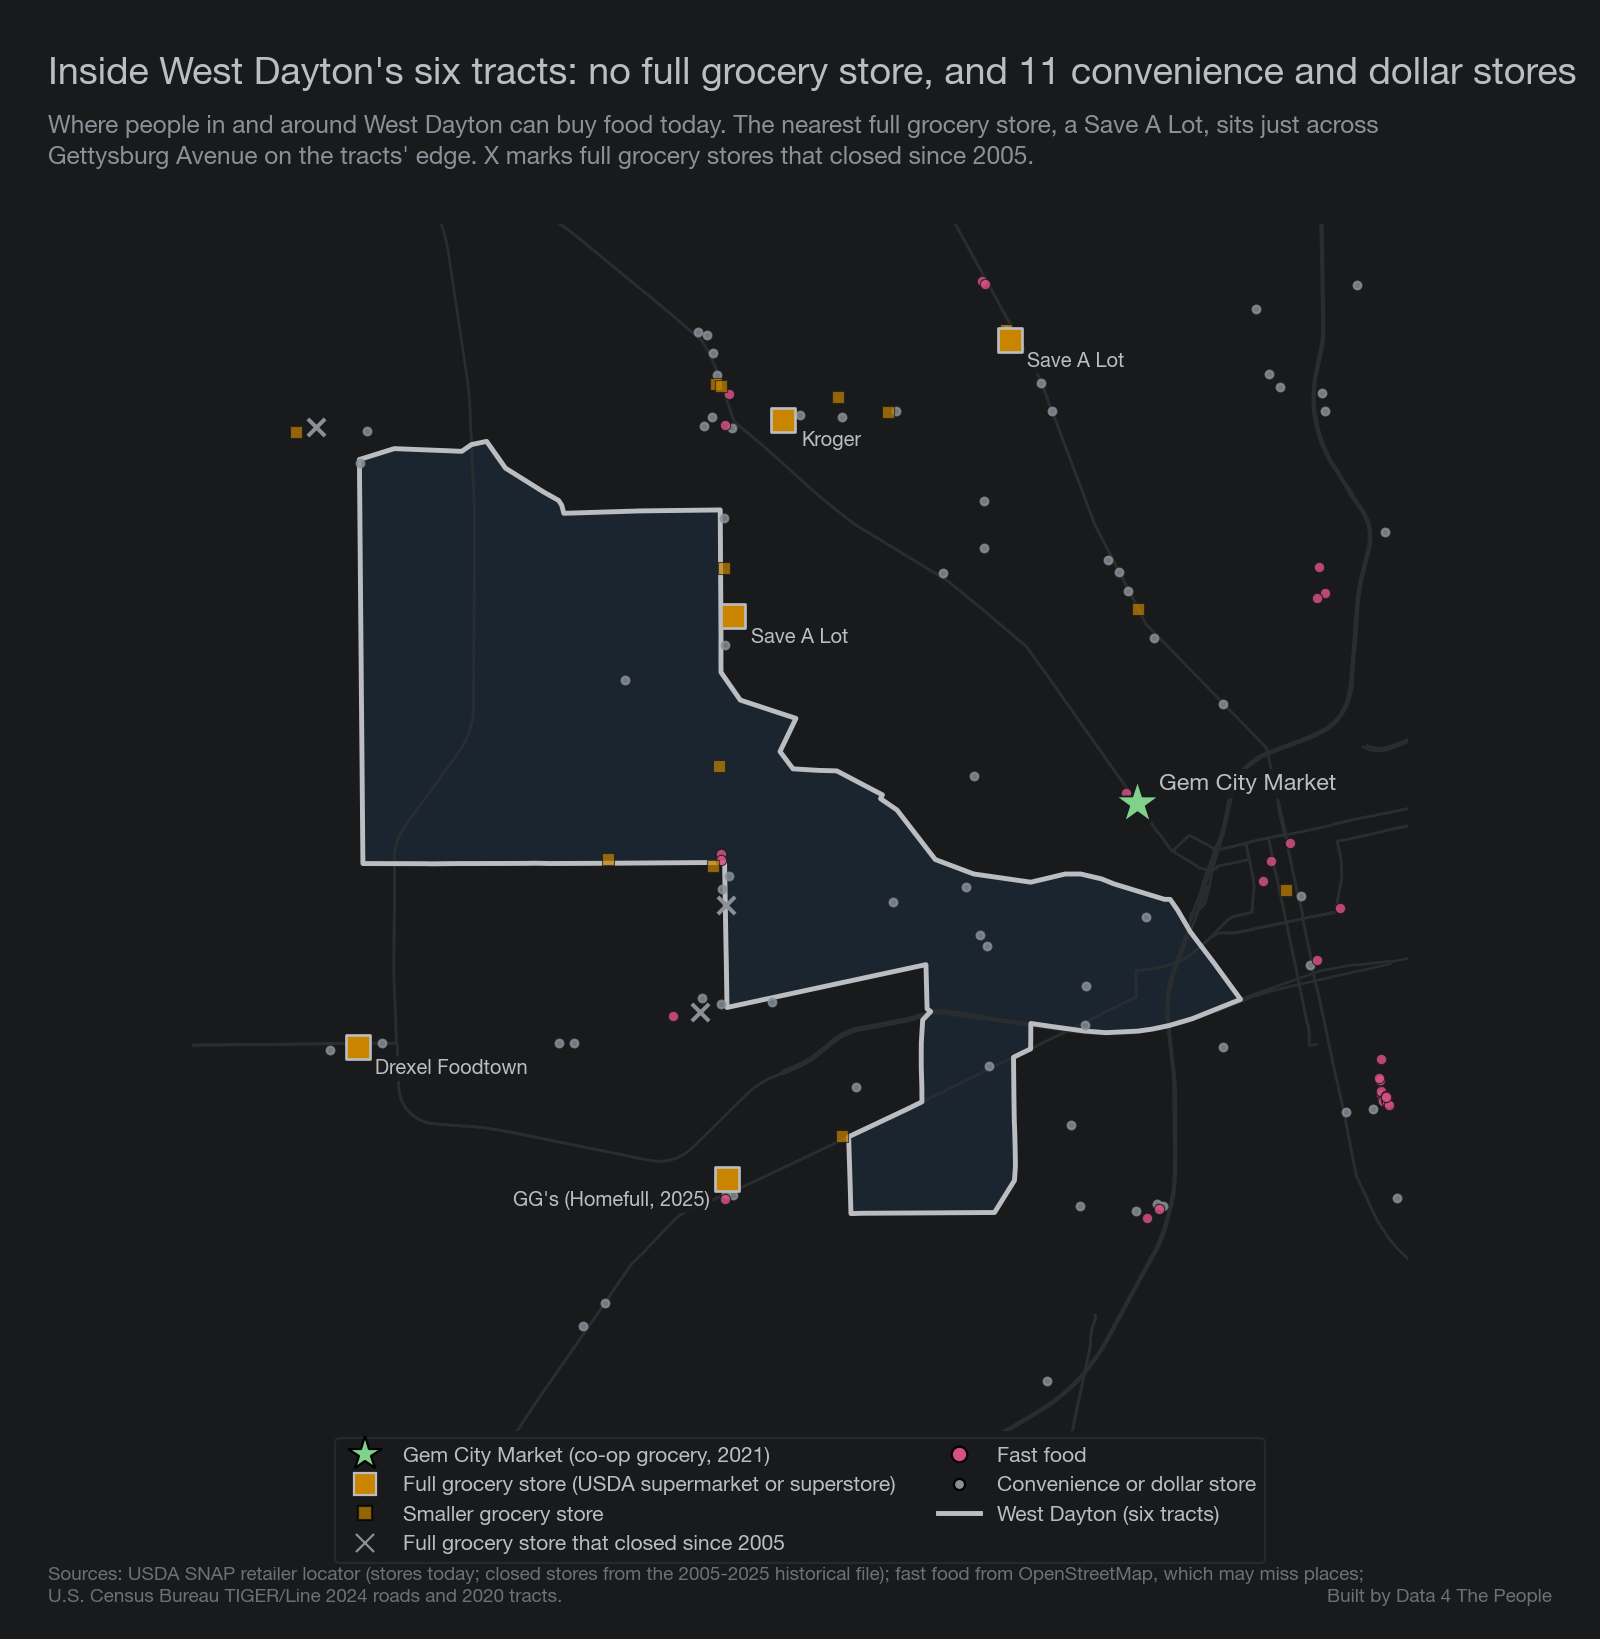
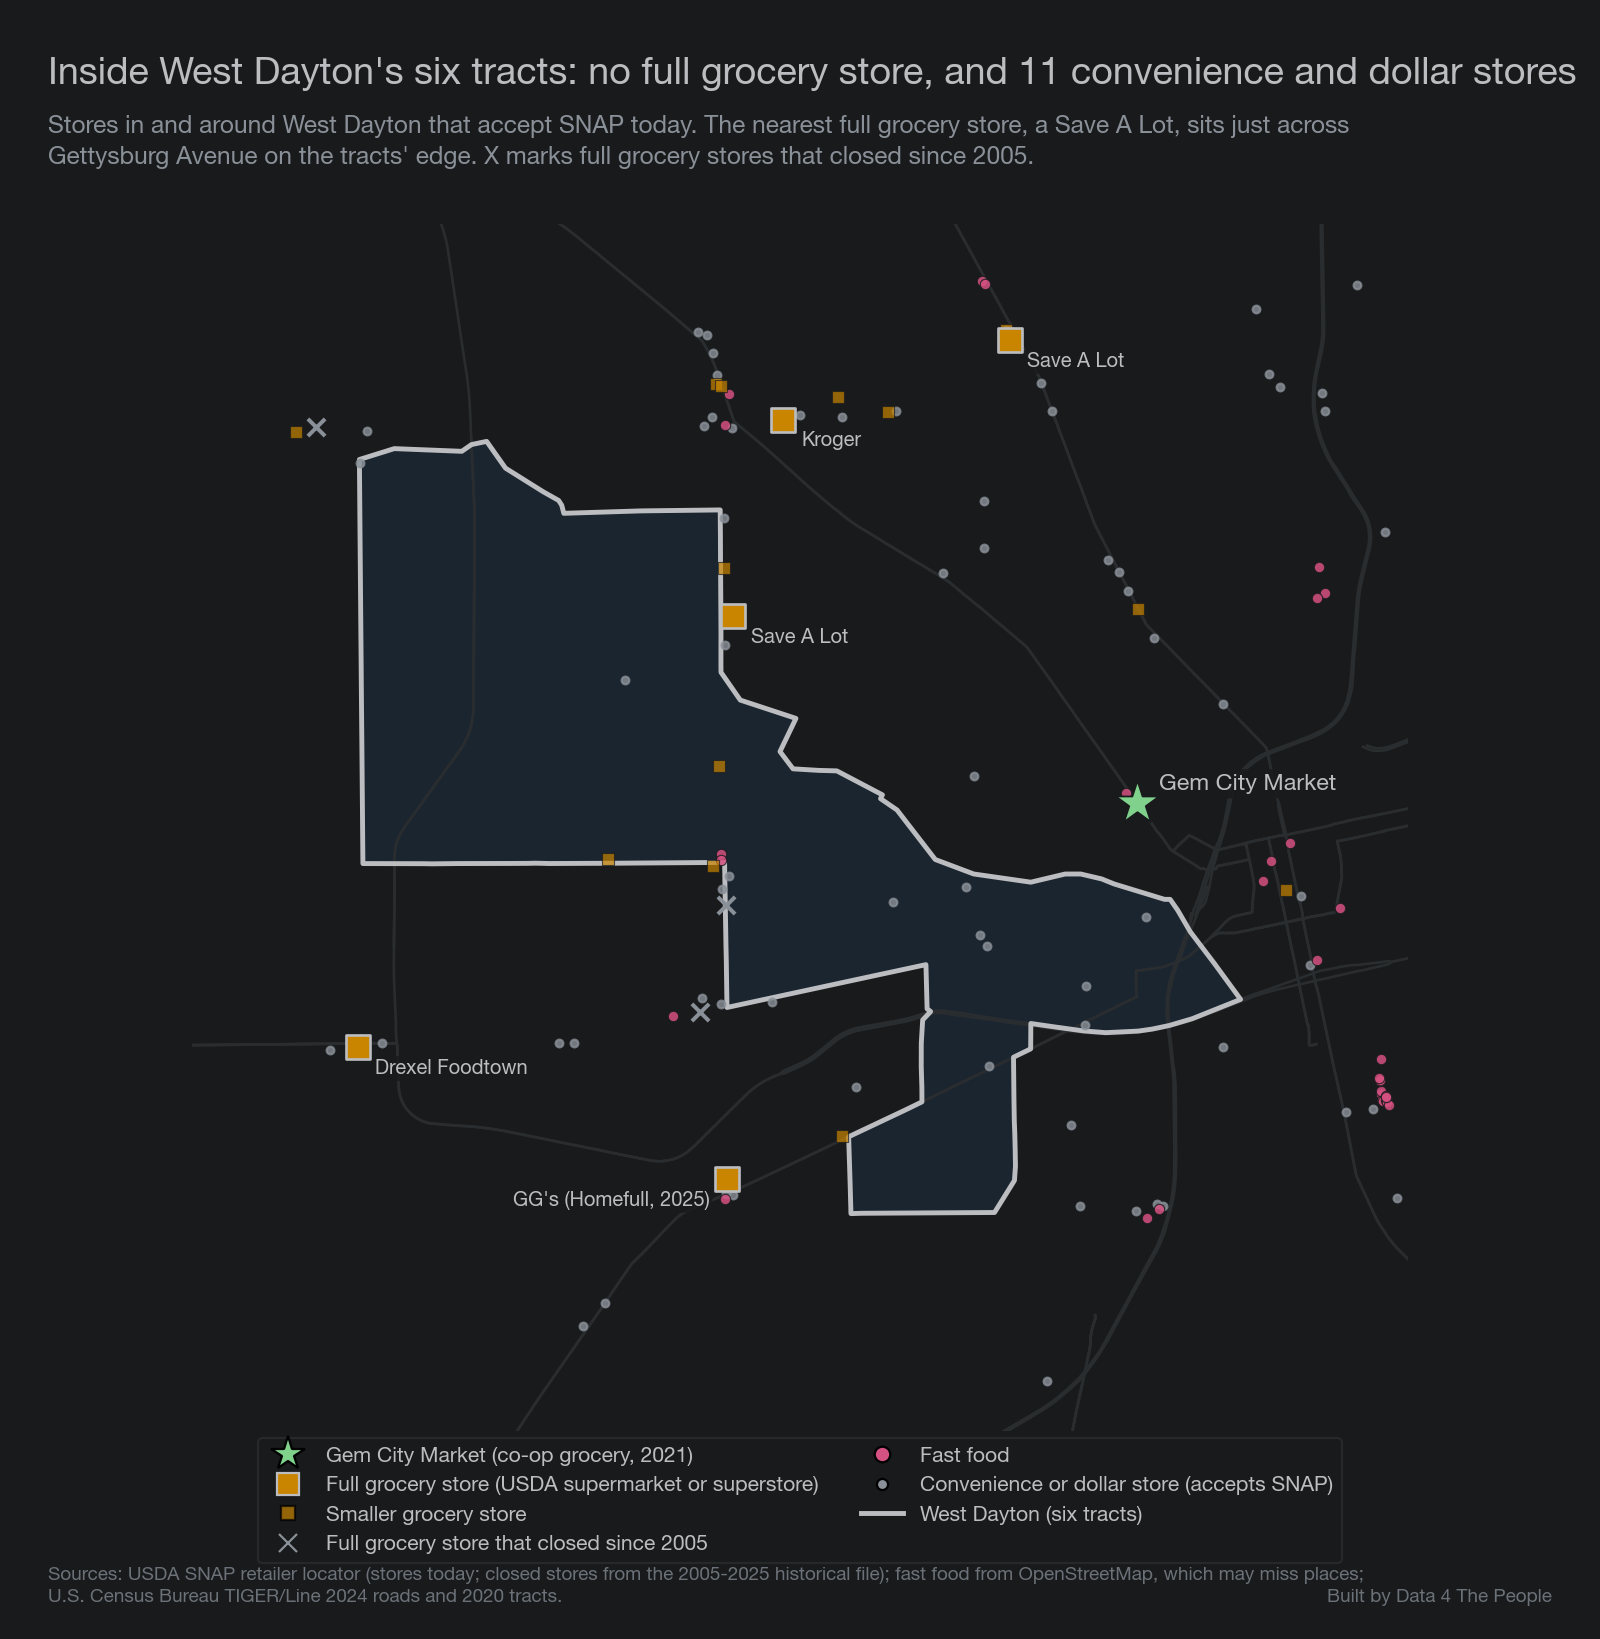
spotlight-west-dayton: food map says every store accepts SNAP; transportation and food insecurity pull (not in text yet)

Changed region(s): [[0.1562, 0.8713, 0.8125, 0.9646], [0.0312, 0.0622, 0.8438, 0.0933]]

diff --git a/scripts/92_transport_westdayton.py b/scripts/92_transport_westdayton.py
@@ -1,0 +1,47 @@
+"""Getting to food in West Dayton: households with no vehicle (ACS) and adults lacking reliable transportation (CDC PLACES).
+
+ACS 2020-2024 5-year B25044 (tenure by vehicles available): no vehicle = owner (003) + renter (010) over total (001),
+summed across the six tracts; Montgomery County and U.S. for comparison.
+CDC PLACES 2025 release (data.cdc.gov cwsq-ngmh), 2023 survey year: LACKTRPT (lack of reliable transportation in the past
+12 months) and FOODINSECU (food insecurity in the past 12 months), crude prevalence for adults, averaged across the six
+tracts weighted by tract population; comparison is all PLACES tracts with the measure (40 states), weighted by tract population.
+Output: analysis/spotlight/transport_westdayton.csv
+"""
+import sys
+from pathlib import Path
+import pandas as pd, requests
+sys.path.insert(0, str(Path.home() / ".claude/d4tp-process"))
+from d4tp_env import read_env_file
+ROOT = Path(__file__).resolve().parents[1]
+KEY = read_env_file(Path.home() / ".claude/d4tp-process/.env")["CENSUS_API_KEY"]
+T = ["165100", "003800", "003900", "004100", "000200", "070300"]
+V = ["B25044_001E", "B25044_003E", "B25044_010E"]
+U = "https://api.census.gov/data/2024/acs/acs5"
+
+
+def acs(geo, within=None):
+    p = {"get": ",".join(V), "for": geo, "key": KEY}
+    if within: p["in"] = within
+    r = requests.get(U, params=p, timeout=120); r.raise_for_status()
+    d = pd.DataFrame(r.json()[1:], columns=r.json()[0]); d[V] = d[V].astype(int); return d
+
+
+rows = []
+t = acs("tract:*", "state:39 county:113"); t = t[t.tract.isin(T)]
+for name, d in (("West Dayton", t), ("Montgomery County", acs("county:113", "state:39")), ("United States", acs("us:1"))):
+    nv, tot = (d.B25044_003E + d.B25044_010E).sum(), d.B25044_001E.sum()
+    rows.append(dict(area=name, measure="households_no_vehicle_pct", value=round(100 * nv / tot, 1), n=int(nv), total=int(tot)))
+
+q = requests.get("https://data.cdc.gov/resource/cwsq-ngmh.json",
+                 params={"$where": "countyfips='39113' and measureid in('LACKTRPT','FOODINSECU')", "$limit": 5000}, timeout=120).json()
+p = pd.DataFrame(q); p = p[p.locationname.str[-6:].isin(T)]
+p["v"] = p.data_value.astype(float); p["pop"] = p.totalpopulation.astype(float)
+for m, g in p.groupby("measureid"):
+    rows.append(dict(area="West Dayton", measure=m, value=round((g.v * g["pop"]).sum() / g["pop"].sum(), 1), n=len(g), total=None, year=g.year.iloc[0]))
+    for r in g.itertuples(): rows.append(dict(area="tract " + r.locationname[-6:], measure=m, value=r.v, year=r.year))
+for m in ("LACKTRPT", "FOODINSECU"):  # tracts in the 40 states PLACES covers for these measures, weighted by tract population
+    a = requests.get("https://data.cdc.gov/resource/cwsq-ngmh.json", params={"$select": "sum(data_value*totalpopulation) as s, sum(totalpopulation) as p, count(*) as n",
+                     "$where": f"measureid='{m}' and data_value_type='Crude prevalence'"}, timeout=120).json()[0]
+    rows.append(dict(area="PLACES tracts (40 states)", measure=m, value=round(float(a["s"]) / float(a["p"]), 1), n=int(a["n"]), year="2023"))
+out = pd.DataFrame(rows); out.to_csv(ROOT / "analysis/spotlight/transport_westdayton.csv", index=False)
+print(out.to_string(index=False))

diff --git a/scripts/91_food_map.py b/scripts/91_food_map.py
@@ -113,13 +113,13 @@ leg = [Line2D([], [], marker="*", color="none", markerfacecolor="#7fd18b", marke
        Line2D([], [], marker="s", color="none", markerfacecolor=YELLOW, alpha=0.7, markersize=6, label="Smaller grocery store"),
        Line2D([], [], marker="x", color=INK_DIM, markersize=8, lw=0, label="Full grocery store that closed since 2005"),
        Line2D([], [], marker="o", color="none", markerfacecolor=MAGENTA, markersize=7, label="Fast food"),
-       Line2D([], [], marker="o", color="none", markerfacecolor=INK_DIM, markersize=5, label="Convenience or dollar store"),
+       Line2D([], [], marker="o", color="none", markerfacecolor=INK_DIM, markersize=5, label="Convenience or dollar store (accepts SNAP)"),
        Line2D([], [], color=INK, lw=2.2, label="West Dayton (six tracts)")]
 fig.legend(handles=leg, loc="lower center", ncol=2, bbox_to_anchor=(0.5, 0.04), frameon=True, facecolor=SURFACE, edgecolor=GRID, labelcolor=INK, fontsize=9.5)
 ff_in = int(tab.query("kind == 'Fast food (OpenStreetMap)' and where == 'inside'").n.iloc[0])
 full_in = int(tab.query("kind == 'Full grocery store' and where == 'inside'").n.iloc[0])
 cv_in = int(tab.query("kind == 'Convenience or dollar store' and where == 'inside'").n.iloc[0])
 titleblock(fig, f"Inside West Dayton's six tracts: no full grocery store, and {cv_in} convenience and dollar stores",
-           "Where people in and around West Dayton can buy food today. The nearest full grocery store, a Save A Lot, sits just across\nGettysburg Avenue on the tracts' edge. X marks full grocery stores that closed since 2005.")
+           "Stores in and around West Dayton that accept SNAP today. The nearest full grocery store, a Save A Lot, sits just across\nGettysburg Avenue on the tracts' edge. X marks full grocery stores that closed since 2005.")
 credit(fig, "Sources: USDA SNAP retailer locator (stores today; closed stores from the 2005-2025 historical file); fast food from OpenStreetMap, which may miss places;\nU.S. Census Bureau TIGER/Line 2024 roads and 2020 tracts.")
 fig.savefig(ROOT / "posts/spotlight-west-dayton/images/05-food-map.png"); plt.close(fig)

diff --git a/posts/spotlight-west-dayton/POST.md b/posts/spotlight-west-dayton/POST.md
@@ -123,7 +123,7 @@ The health numbers in the table at the top are today's. Health estimates for cen
 West Dayton has also gone years without a full grocery store. The Kroger at 900 N. Gettysburg Ave., inside the six tracts, closed in 2008, and chain grocers "declined citing a potential lack of profits" to replace it ([WYSO, 2017](https://www.wyso.org/news/2017-12-04/planned-co-operative-grocery-store-aims-to-bring-fresh-fruits-and-veggies-back-to-daytons-west-side)). In 2019, the U.S. Department of Agriculture counted all six tracts as low income, and five of the six as low access, meaning many people lived more than half a mile from a supermarket ([USDA Food Access Research Atlas](https://www.ers.usda.gov/data-products/food-access-research-atlas/)). In May 2021, residents opened Gem City Market, a grocery owned by its workers and members, on Salem Avenue, about half a mile outside the six tracts. In October 2026, its board warned that falling sales could close the store ([WHIO](https://www.k991fm.com/news/local/gem-city-market-seeks-boost-sales-ensure-long-term-survival/Y54RX6M5LVFCZPS3VIGKOAMIDY/)). The map below shows where people in and around West Dayton can buy food today.
 
 ![Map of West Dayton's six census tracts and the stores around them. Inside the tracts there is no full grocery store, 2 smaller grocery stores, 11 convenience and dollar stores and 2 fast-food places. A Save A Lot sits just across Gettysburg Avenue on the edge. Gem City Market is about half a mile northeast, a Kroger about half a mile north and GG's about a mile south. X marks show the Kroger on Gettysburg Avenue that closed in 2008 and other closed stores nearby.](images/05-food-map.png)
-*Stores from the USDA SNAP retailer list, November 2026. Fast food from OpenStreetMap, which may miss places. Full grocery stores are those USDA lists as supermarkets or superstores, plus GG's.*
+*Every store shown accepts SNAP, from USDA's SNAP retailer list, November 2026. Fast food from OpenStreetMap, which may miss places. Full grocery stores are those USDA lists as supermarkets or superstores, plus GG's.*
 
 In January 2018, Premier Health announced it would close Good Samaritan Hospital, north of West Dayton. It said two hospitals five miles apart were not sustainable ([WYSO, Jan. 17, 2018](https://www.wyso.org/news/2018-01-17/premier-health-to-close-good-samaritan-hospital-in-2018)). The hospital had 491 beds and about 1,600 employees ([Healthcare Dive, 2018](https://www.healthcaredive.com/news/premier-health-to-consolidate-its-two-dayton-hospitals/515093/)). A coalition of west side clergy filed a civil rights complaint with the U.S. Department of Health and Human Services. It said the closing would fall hardest on Black residents and women, and that Good Samaritan was the only hospital with labor and delivery care on Dayton's west side ([WYSO, May 3, 2018](https://www.wyso.org/news/2018-05-03/premier-reviewing-west-dayton-civil-rights-complaint-against-good-samaritan-hospital-shutdown)). The emergency room shut on July 19, 2018, as about 40 residents and activists protested, and the hospital closed four days later ([WYSO, July 19, 2018](https://www.wyso.org/news/2018-07-19/good-samaritan-emergency-department-shuts-doors-amid-protest-federal-civil-rights-investigation)). In March 2022, Premier released a letter from the Department of Health and Human Services. It said the department had interviewed more than 100 residents and found no violation of federal civil rights law ([Dayton 24/7 Now, March 22, 2022](https://dayton247now.com/news/local/federal-investigation-finds-no-violations-in-good-samaritan-hospital-closure)).
 
